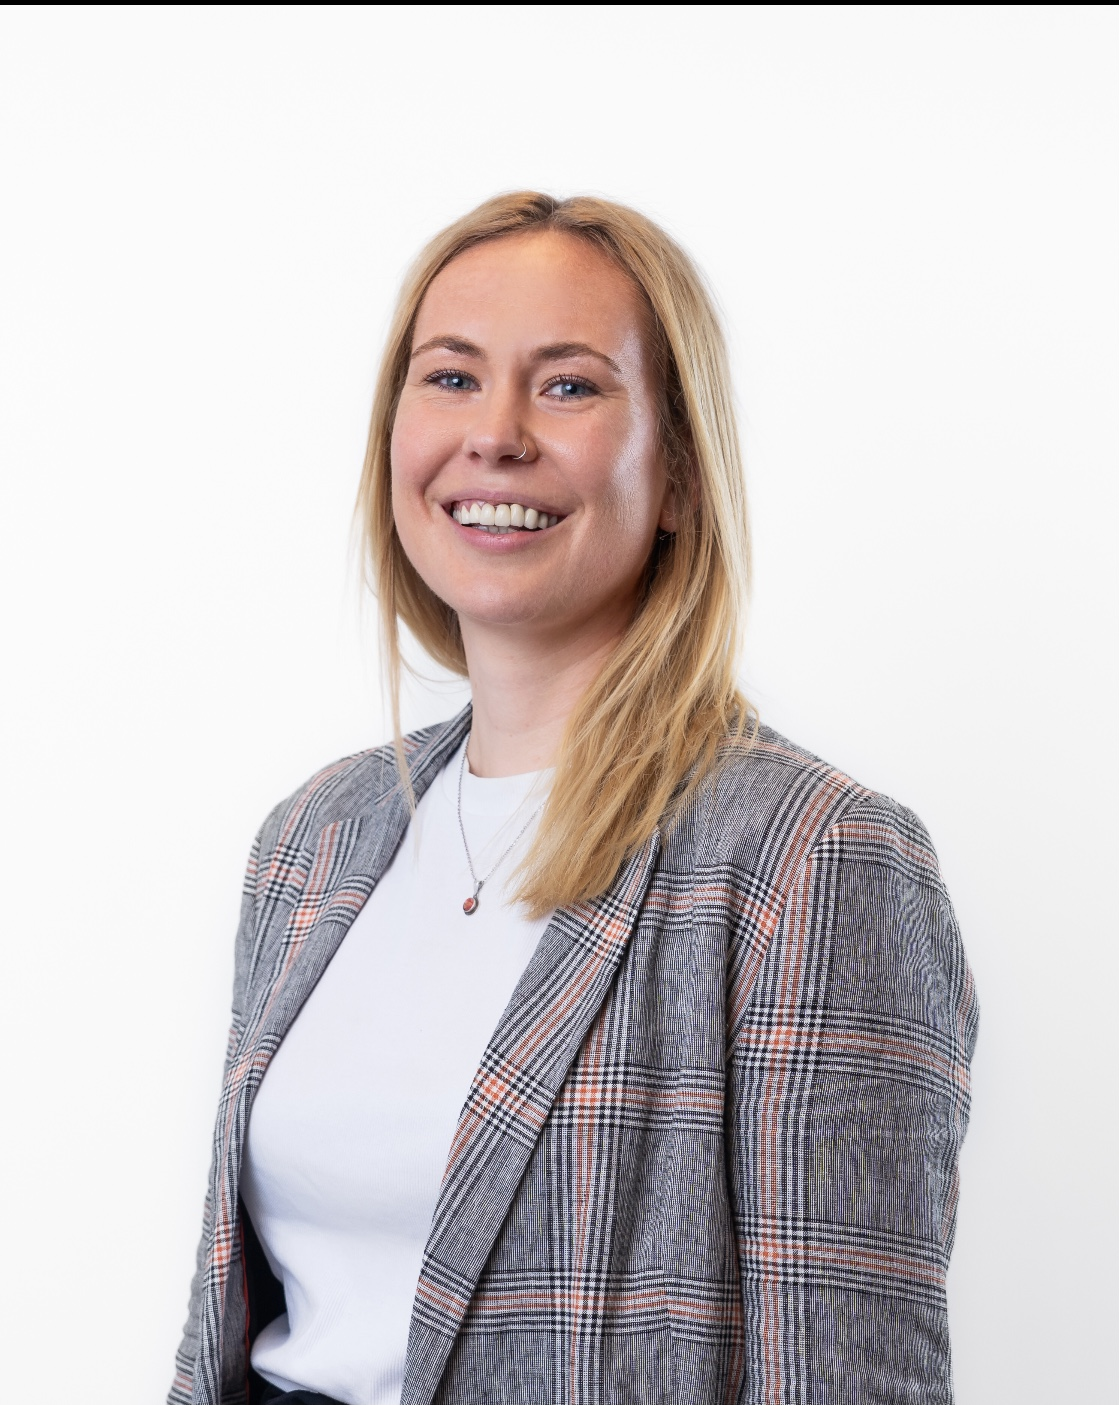
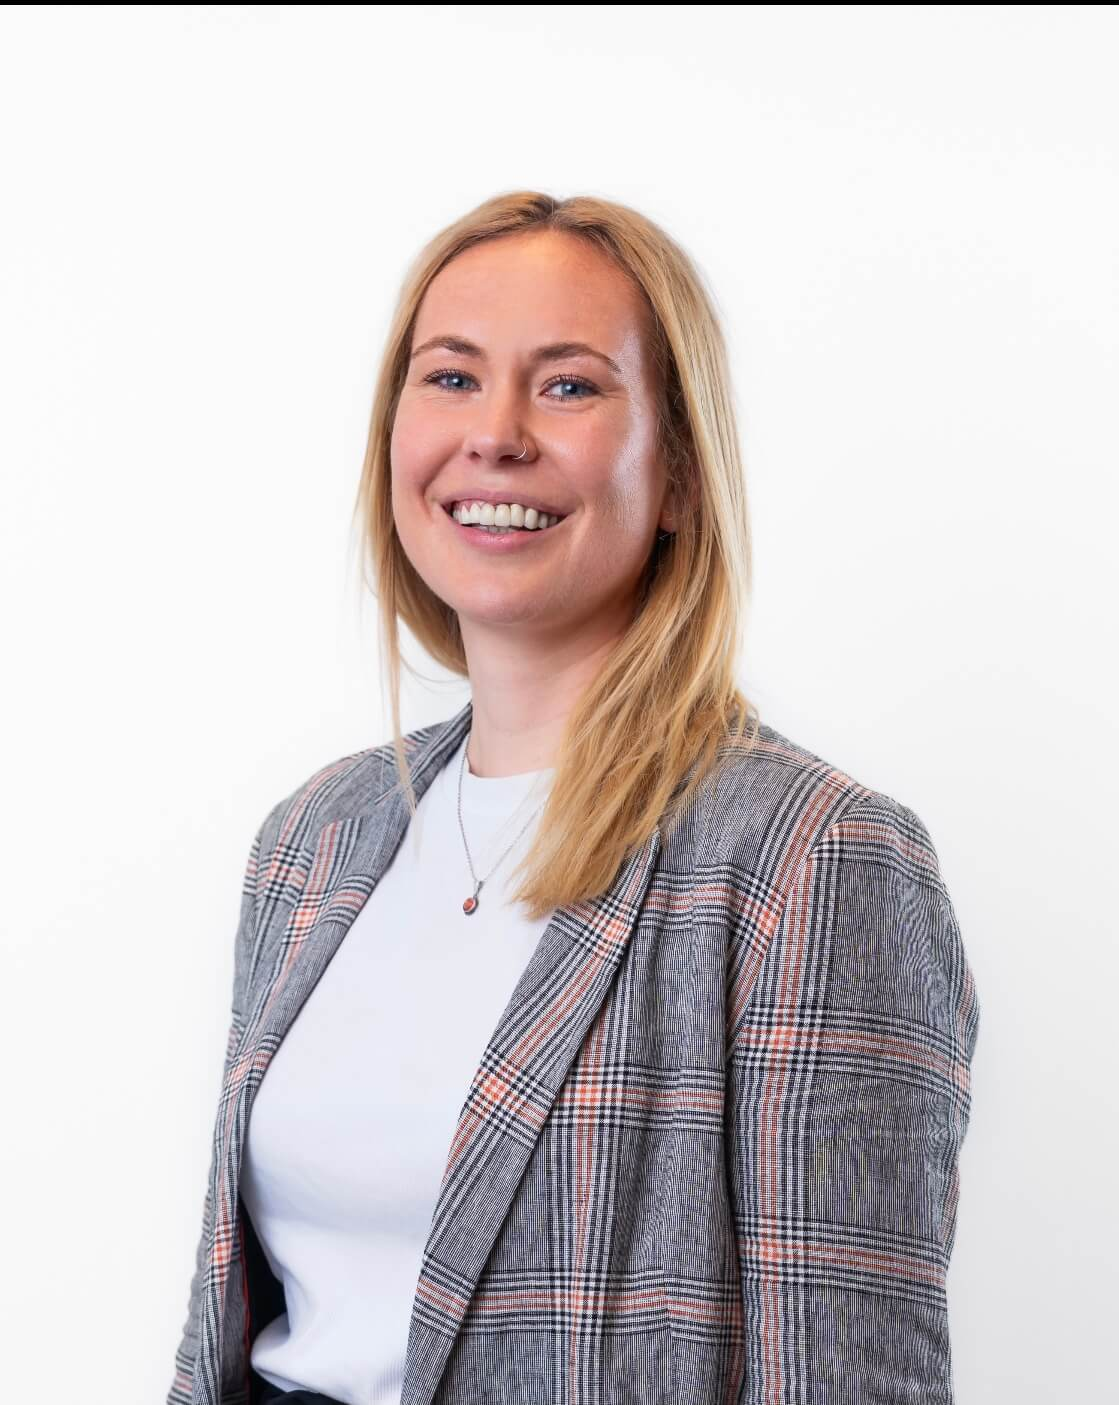
chore: optimize images and improve profile presentataion

Changed region(s): [[0.3646, 0.5509, 0.8508, 1.0], [0.8508, 0.7039, 0.8811, 0.7345], [0.6685, 0.5203, 0.6988, 0.5509]]

diff --git a/index.html b/index.html
@@ -198,8 +198,8 @@
           <div class="contact-lines">
             <p>
               <strong>Email:</strong>
-              <a href="mailto:hanhel55335@noroff.stud.no"
-                >hanhel55335@noroff.stud.no</a
+              <a href="mailto:hanne_stray@hotmail.com"
+                >hanne_stray@hotmail.com</a
               >
             </p>
             <p>
